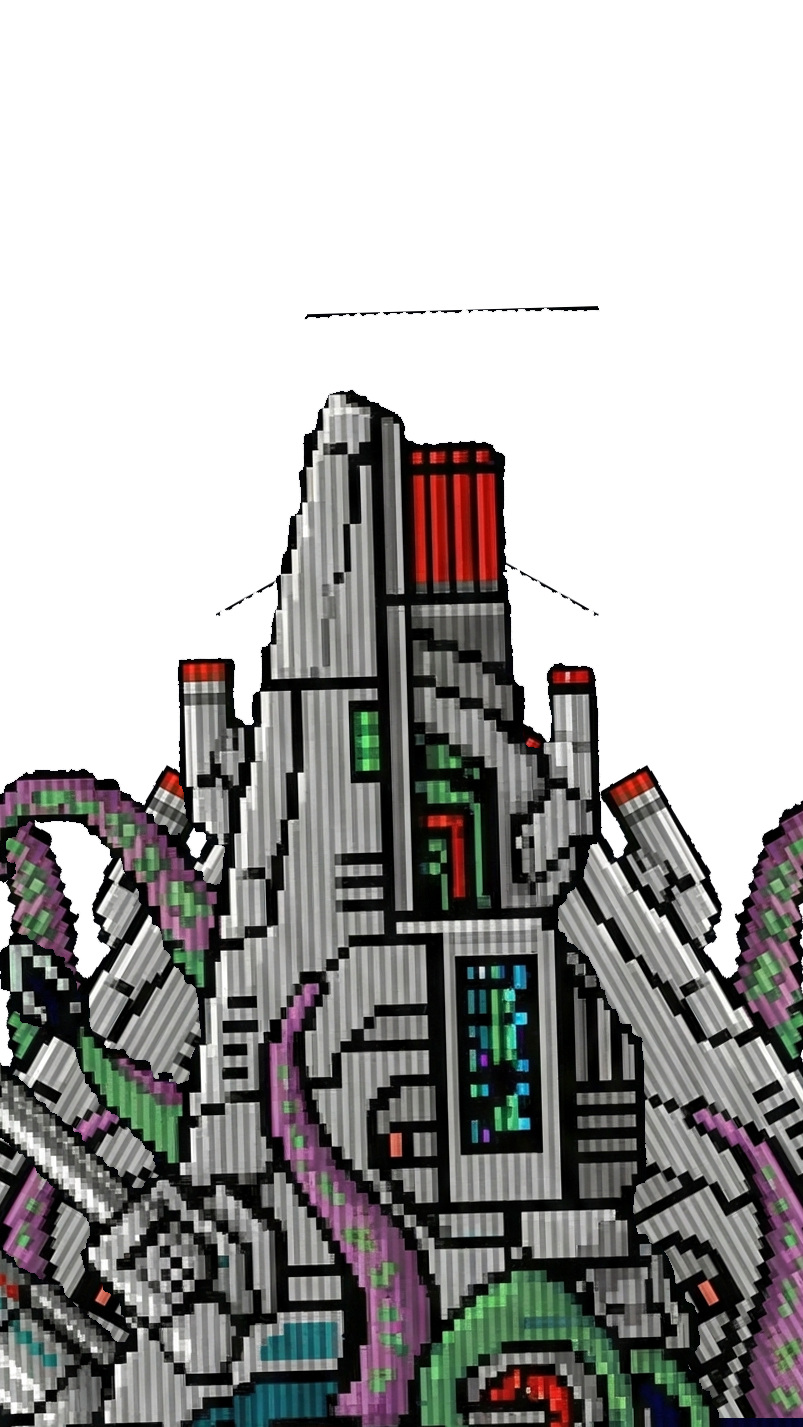
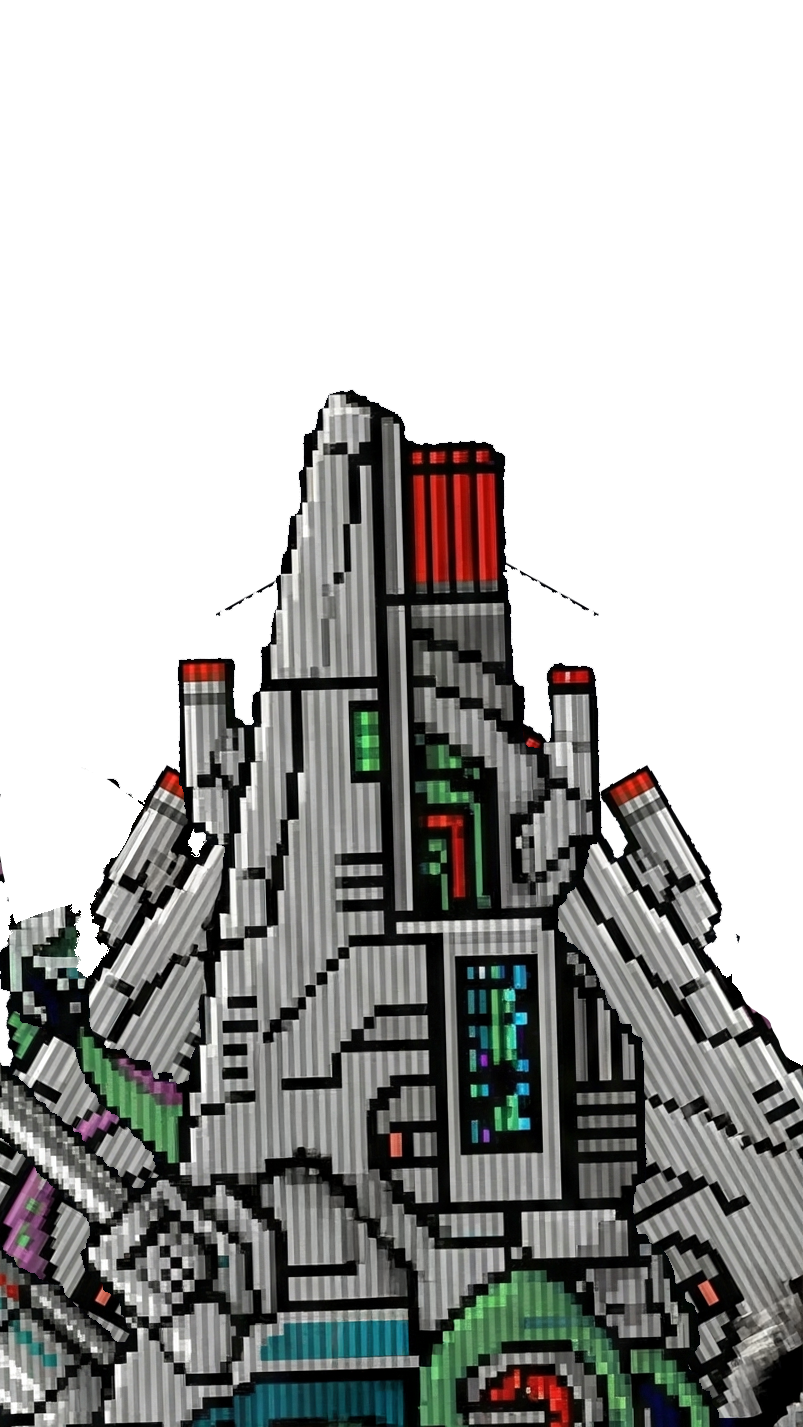
asd

diff --git a/src/game/scenes/PlayScene.ts b/src/game/scenes/PlayScene.ts
@@ -1,5 +1,6 @@
 import Phaser from "phaser";
 import { DESIGN_WIDTH, DESIGN_HEIGHT } from "../constants";
+import { PurpleWavePipeline } from "../pipelines/PurpleWavePipeline";
 
 export class PlayScene extends Phaser.Scene {
     private bg!: Phaser.GameObjects.TileSprite;
@@ -53,15 +54,19 @@ export class PlayScene extends Phaser.Scene {
 
     // Cryptonic Sam Boss
     private boss!: Phaser.Physics.Arcade.Image;
-    private bossHealth: number = 50;
-    private bossMaxHealth: number = 50;
+    private bossHealth: number = 250;
+    private bossMaxHealth: number = 250;
     private bossGroup!: Phaser.Physics.Arcade.Group;
     private bossState: "HIDDEN" | "ENTERING" | "FIGHTING" = "HIDDEN";
+    private isBossEnraged: boolean = false;
     private bossBG!: Phaser.GameObjects.Image;
+    private bossFG!: Phaser.GameObjects.Image;
     private bossLasers!: Phaser.Physics.Arcade.Group;
     private bossNameText!: Phaser.GameObjects.Text;
     private bossHealthBarBG!: Phaser.GameObjects.Rectangle;
     private bossHealthBarFill!: Phaser.GameObjects.Rectangle;
+    private batVomitEvent?: Phaser.Time.TimerEvent;
+    private bossFightStartTime: number = 0;
 
     private isInvulnerable: boolean = false;
 
@@ -71,10 +76,16 @@ export class PlayScene extends Phaser.Scene {
 
     create() {
         // Reset state
-        this.health = 3;
+        this.health = 10;
         this.score = 0;
         this.isGameOver = false;
         this.lastFired = 0;
+        this.bossState = "HIDDEN";
+        this.isBossEnraged = false;
+        if (this.batVomitEvent) {
+            this.batVomitEvent.remove(false);
+            this.batVomitEvent = undefined;
+        }
 
         this.bg = this.add
             .tileSprite(0, 0, DESIGN_WIDTH, DESIGN_HEIGHT, "background")
@@ -365,7 +376,7 @@ export class PlayScene extends Phaser.Scene {
         this.time.delayedCall(15000, () => this.spawnBoss());
 
         // UI: Health
-        this.healthText = this.add.text(20, 20, "HP: 3", {
+        this.healthText = this.add.text(20, 20, "HP: 10", {
             fontSize: "11px",
             fontFamily: '"Press Start 2P"',
             color: "#ff0000",
@@ -445,21 +456,6 @@ export class PlayScene extends Phaser.Scene {
         this.tripleShotUIBarFill = this.add.graphics();
         this.tripleShotUIContainer.add([tsIcon, tsBarBG, this.tripleShotUIBarFill]);
 
-        // DEBUG UI: BOSS SPAWN BUTTON
-        const spawnBtn = this.add.text(DESIGN_WIDTH / 2, 60, "BOSS SPAWN", {
-            fontSize: "14px",
-            fontFamily: '"Press Start 2P"',
-            color: "#00ff00",
-            backgroundColor: "#000000",
-            padding: { x: 5, y: 5 }
-        })
-            .setOrigin(0.5)
-            .setDepth(200)
-            .setInteractive({ useHandCursor: true })
-            .on('pointerdown', () => {
-                this.spawnBoss();
-                spawnBtn.setVisible(false);
-            });
 
         // Physics: Ship vs Bats/Ghosts
         this.physics.add.overlap(this.ship, this.bats, (obj1, obj2) => {
@@ -492,7 +488,7 @@ export class PlayScene extends Phaser.Scene {
         // Physics: Ship vs Heal
         this.physics.add.overlap(this.ship, this.heals, (ship, item) => {
             (item as Phaser.Physics.Arcade.Image).destroy();
-            this.health = 3;
+            this.health = Math.min(this.health + 5, 10);
             this.healthText.setText("HP: " + this.health);
         });
 
@@ -928,8 +924,9 @@ export class PlayScene extends Phaser.Scene {
     spawnBoss() {
         if (this.bossState !== "HIDDEN") return;
         this.bossState = "ENTERING";
-        this.bossHealth = 50;
-        this.bossMaxHealth = 50;
+        // Reset health to max when spawning
+        this.bossHealth = this.bossMaxHealth;
+        this.isBossEnraged = false;
 
         // Create Boss Sprite (Off-screen BOTTOM)
         this.boss = this.physics.add.image(DESIGN_WIDTH / 2, DESIGN_HEIGHT + 150, "boss");
@@ -938,7 +935,9 @@ export class PlayScene extends Phaser.Scene {
         this.boss.setVisible(true);
         this.boss.setActive(true);
         this.boss.setImmovable(true);
-        this.boss.body.onCollide = true;
+        if (this.boss.body) {
+            this.boss.body.onCollide = true;
+        }
 
         // Scale to fit width, THEN REDUCE 1.5X (was 3x, now doubled as requested)
         const targetWidth = DESIGN_WIDTH;
@@ -954,20 +953,42 @@ export class PlayScene extends Phaser.Scene {
             body.setAllowGravity(false);
         }
 
-        this.boss.setData('health', 50);
+        this.boss.setData('health', this.bossMaxHealth);
 
-        // Create Boss Background (6.png) - Start at Bottom
+        // Create Boss Background (6.png) - Static Layer
         this.bossBG = this.add.image(DESIGN_WIDTH / 2, DESIGN_HEIGHT + (DESIGN_HEIGHT / 2), "boss-bg");
         this.bossBG.setDepth(1);
+        this.bossBG.setTint(0xB2B2B2); // Reduce brightness by 30%
         this.bossBG.setDisplaySize(DESIGN_WIDTH * 1.2, DESIGN_HEIGHT);
+
+        // Create Boss Foreground (7.png) - Animated Tentacles
+        this.bossFG = this.add.image(DESIGN_WIDTH / 2, DESIGN_HEIGHT + (DESIGN_HEIGHT / 2), "boss-fg");
+        this.bossFG.setDepth(2); // Above BG, Below Boss (Boss is depth 5)
+        this.bossFG.setDisplaySize(DESIGN_WIDTH * 1.2, DESIGN_HEIGHT);
+
+        // Register and apply PurpleWavePipeline to Foreground Only
+        const renderer = this.renderer as Phaser.Renderer.WebGL.WebGLRenderer;
+        if (renderer.pipelines && !renderer.pipelines.has('PurpleWavePipeline')) {
+            renderer.pipelines.addPostPipeline('PurpleWavePipeline', PurpleWavePipeline);
+        }
+        this.bossFG.setPostPipeline('PurpleWavePipeline');
 
         // Move up by 50px (+60 -> +10)
         const destY = ((this.boss.height * scale) / 2) + 10;
 
-        // Tween Boss Entry & Background Entry (Synchronized)
+        // Tween Boss Entry & Backgrounds Entry (Synchronized)
         this.tweens.add({
-            targets: this.boss,
+            targets: [this.boss, this.bossBG],
             y: destY,
+            duration: 4000,
+            ease: "Power2"
+        });
+
+        // Tween Boss FG (Tentacles) - Align Bottom with Screen Bottom
+        // Target Y is center of screen since height = DESIGN_HEIGHT
+        this.tweens.add({
+            targets: this.bossFG,
+            y: DESIGN_HEIGHT / 2,
             duration: 4000,
             ease: "Power2"
         });
@@ -979,6 +1000,7 @@ export class PlayScene extends Phaser.Scene {
             ease: "Power2",
             onComplete: () => {
                 this.bossState = "FIGHTING";
+                this.bossFightStartTime = this.time.now; // Track start time for smooth sway
 
                 // Init Health Bar & Name - Anchor to Boss
                 // Text over Head
@@ -1032,9 +1054,11 @@ export class PlayScene extends Phaser.Scene {
 
         if (this.bossState === "FIGHTING") {
             // Horizontal Sway (Synchronized Boss & Background)
-            const swayX = Math.sin(time * 0.0015) * 40;
+            // Use relative time so sin starts at 0 (center)
+            const swayX = Math.sin((time - this.bossFightStartTime) * 0.0015) * 40;
             this.boss.x = DESIGN_WIDTH / 2 + swayX;
             if (this.bossBG) this.bossBG.x = DESIGN_WIDTH / 2 + swayX;
+            if (this.bossFG) this.bossFG.x = DESIGN_WIDTH / 2 + swayX;
 
             const currentHealth = this.boss.getData('health') ?? 50;
             const healthPercent = Phaser.Math.Clamp(currentHealth / this.bossMaxHealth, 0, 1);
@@ -1078,15 +1102,68 @@ export class PlayScene extends Phaser.Scene {
 
     fireLaser(x: number, y: number, angleDeg: number) {
         const laser = this.bossLasers.create(x, y, "projectile") as Phaser.Physics.Arcade.Image;
-        laser.setTint(0xff3333);
-        laser.setScale(1.0, 4.0);
-        laser.setBlendMode(Phaser.BlendModes.ADD);
+        laser.setTint(0xff0000);
+        laser.setScale(1.0, 2.2);
 
         const rad = Phaser.Math.DegToRad(angleDeg);
         const speed = 400;
         laser.setVelocity(Math.cos(rad) * speed, Math.sin(rad) * speed);
         laser.setRotation(rad + Math.PI / 2);
         laser.setDepth(12);
+    }
+
+    spawnBossBatVomit() {
+        if (!this.boss || !this.boss.active || this.bossState !== "FIGHTING") return;
+
+        // Swap Texture to Vomit Boss
+        this.boss.setTexture("vomitboss");
+
+        // Re-apply scale to fit width (same logic as spawnBoss)
+        const targetWidth = DESIGN_WIDTH;
+        let scale = targetWidth / this.boss.width;
+        scale *= (2 / 3);
+        this.boss.setScale(scale);
+
+        // Revert to normal boss after 2 seconds
+        this.time.delayedCall(2000, () => {
+            if (this.boss && this.boss.active) {
+                this.boss.setTexture("boss");
+                // Re-apply scale for original sprite
+                const targetWidth = DESIGN_WIDTH;
+                let scale = targetWidth / this.boss.width;
+                scale *= (2 / 3);
+                this.boss.setScale(scale);
+            }
+        });
+
+        // Spawn a stream of bats from the "mouth"
+        const spawnCount = 20; // Total bats in the stream
+        const delayBetweenBats = 100; // ms
+
+        for (let i = 0; i < spawnCount; i++) {
+            this.time.delayedCall(i * delayBetweenBats, () => {
+                if (!this.boss || !this.boss.active) return;
+
+                const mouthY = this.boss.y + (this.boss.height * this.boss.scaleY * 0.3); // Approximate mouth position
+                const bat = this.bats.create(this.boss.x, mouthY, 'bat') as Phaser.Physics.Arcade.Sprite;
+
+                bat.setScale(0.25);
+                bat.setAngle(180); // Facing down
+                bat.play('bat-fly');
+
+                // Random spread downwards
+                const spreadX = Phaser.Math.Between(-200, 200);
+                const speedY = Phaser.Math.Between(300, 500);
+
+                bat.setVelocity(spreadX, speedY);
+                bat.setDepth(11); // Above boss bg but below lasers
+
+                // Cleanup if they go off screen (already handled by world bounds or generic update loop, but safe to add)
+                this.time.delayedCall(3000, () => {
+                    if (bat && bat.active) bat.destroy();
+                });
+            });
+        }
     }
 
     private lastBossHitTime: number = 0;
@@ -1109,6 +1186,17 @@ export class PlayScene extends Phaser.Scene {
         if (currentHealth === undefined || currentHealth === null) currentHealth = 50;
 
         currentHealth -= 1; // Damage Value (Reduced to 1 as requested)
+        if (currentHealth <= 150 && !this.isBossEnraged) {
+            this.isBossEnraged = true;
+            this.spawnBossBatVomit();
+            // Start recurring timer
+            this.batVomitEvent = this.time.addEvent({
+                delay: 4000,
+                callback: () => this.spawnBossBatVomit(),
+                loop: true
+            });
+        }
+
         this.boss.setData('health', currentHealth);
         this.bossHealth = currentHealth;
 
@@ -1131,12 +1219,29 @@ export class PlayScene extends Phaser.Scene {
         }
 
         if (this.bossBG) {
-            this.tweens.add({
-                targets: this.bossBG,
-                alpha: 0,
-                duration: 1000,
-                onComplete: () => this.bossBG.destroy()
+            const bgX = this.bossBG.x;
+            const bgY = this.bossBG.y;
+
+            // BG Explosion of bats
+            const bgEmitter = this.add.particles(bgX, bgY, 'bat', {
+                speed: { min: 200, max: 600 },
+                angle: { min: 0, max: 360 },
+                scale: { start: 0.1, end: 0.1 }, // Constant scale (4x smaller)
+                lifespan: 2000,
+                quantity: 60,
+                gravityY: 0, // Radial burst
+                rotate: { min: 0, max: 360 },
+                emitting: false
             });
+            bgEmitter.setDepth(4); // Behind boss explosion (boss is depth 5, BG was -5 but particles should be visible)
+            bgEmitter.explode(60, bgX, bgY);
+
+            this.time.delayedCall(2500, () => bgEmitter.destroy());
+            this.bossBG.destroy();
+        }
+
+        if (this.bossFG) {
+            this.bossFG.destroy();
         }
 
         if (this.bossNameText) this.bossNameText.setVisible(false);
@@ -1150,6 +1255,28 @@ export class PlayScene extends Phaser.Scene {
                     by + Phaser.Math.Between(-100, 100)
                 );
             });
+        }
+
+        // Massive Bat Explosion
+        const emitter = this.add.particles(bx, by, 'bat', {
+            speed: { min: 400, max: 800 },
+            angle: { min: 0, max: 360 },
+            scale: { start: 0.3, end: 0.3 }, // Constant size
+            lifespan: 1000, // Faster life
+            quantity: 40,
+            gravityY: 0, // Fly outwards
+            rotate: { min: 0, max: 360 },
+            emitting: false
+        });
+
+        emitter.explode(30, bx, by);
+
+        // Auto-destroy emitter after duration
+        this.time.delayedCall(1200, () => emitter.destroy());
+
+        if (this.batVomitEvent) {
+            this.batVomitEvent.remove(false);
+            this.batVomitEvent = undefined;
         }
 
         this.boss.destroy();

diff --git a/src/game/pipelines/PurpleWavePipeline.ts b/src/game/pipelines/PurpleWavePipeline.ts
@@ -1,0 +1,46 @@
+
+export class PurpleWavePipeline extends Phaser.Renderer.WebGL.Pipelines.PostFXPipeline {
+    constructor(game: Phaser.Game) {
+        super({
+            game,
+            name: "PurpleWavePipeline",
+            fragShader: `
+            precision mediump float;
+            uniform sampler2D uMainSampler;
+            uniform float uTime;
+            varying vec2 outTexCoord;
+
+            void main(void) {
+                // Defines "living" wave motion
+                float t = uTime * 0.003;
+                
+                // "Anchored" Wave:
+                // We assume the "base" (thickest part) is at the bottom (y=1.0) and "tips" at top (y=0.0).
+                // Amplitude increases as we go up (1.0 - uv.y).
+                // Reduced factor from 0.03 to 0.005 for minimal movement as requested.
+                float amplitude = (1.0 - outTexCoord.y) * 0.005; 
+                
+                // Complex Sine Wave:
+                // Includes 'outTexCoord.x' in phase to make different columns sway slightly differently
+                float wave = sin(outTexCoord.y * 3.0 + outTexCoord.x * 5.0 + t) * amplitude;
+                 
+                // Inverse displacement
+                vec2 sampleUV = vec2(outTexCoord.x - wave, outTexCoord.y);
+                
+                // Sample the texture
+                // Clamp Y to avoid sampling outside 0-1 range which might look glitchy at edges
+                if (sampleUV.x < 0.0 || sampleUV.x > 1.0) {
+                    gl_FragColor = vec4(0.0);
+                } else {
+                    vec4 color = texture2D(uMainSampler, sampleUV);
+                    gl_FragColor = vec4(color.rgb * 0.7, color.a); // Reduce brightness by 30%
+                }
+            }
+            `
+        });
+    }
+
+    onPreRender() {
+        this.set1f("uTime", this.game.loop.time);
+    }
+}

diff --git a/src/game/scenes/BootScene.ts b/src/game/scenes/BootScene.ts
@@ -43,7 +43,7 @@ export class BootScene extends Phaser.Scene {
         });
 
         // Assets - Using static version to encourage caching
-        const version = "1.0.1";
+        const version = "1.0.3";
         this.load.image("background", "/1.png?v=" + version);
         this.load.image("ship", "/mark 1.svg?v=" + version);
         this.load.spritesheet("bat", "/bat.png?v=" + version, {
@@ -62,6 +62,8 @@ export class BootScene extends Phaser.Scene {
         this.load.image("boss", "/sam boss.png?v=" + version);
         this.load.image("debris", "/projectile.png?v=" + version); // Re-use projectile as debris
         this.load.image("boss-bg", "/6.png?v=" + version);
+        this.load.image("boss-fg", "/7.png?v=" + version);
+        this.load.image("vomitboss", "/vomitboss.png?v=" + version);
     }
 
     create() {
